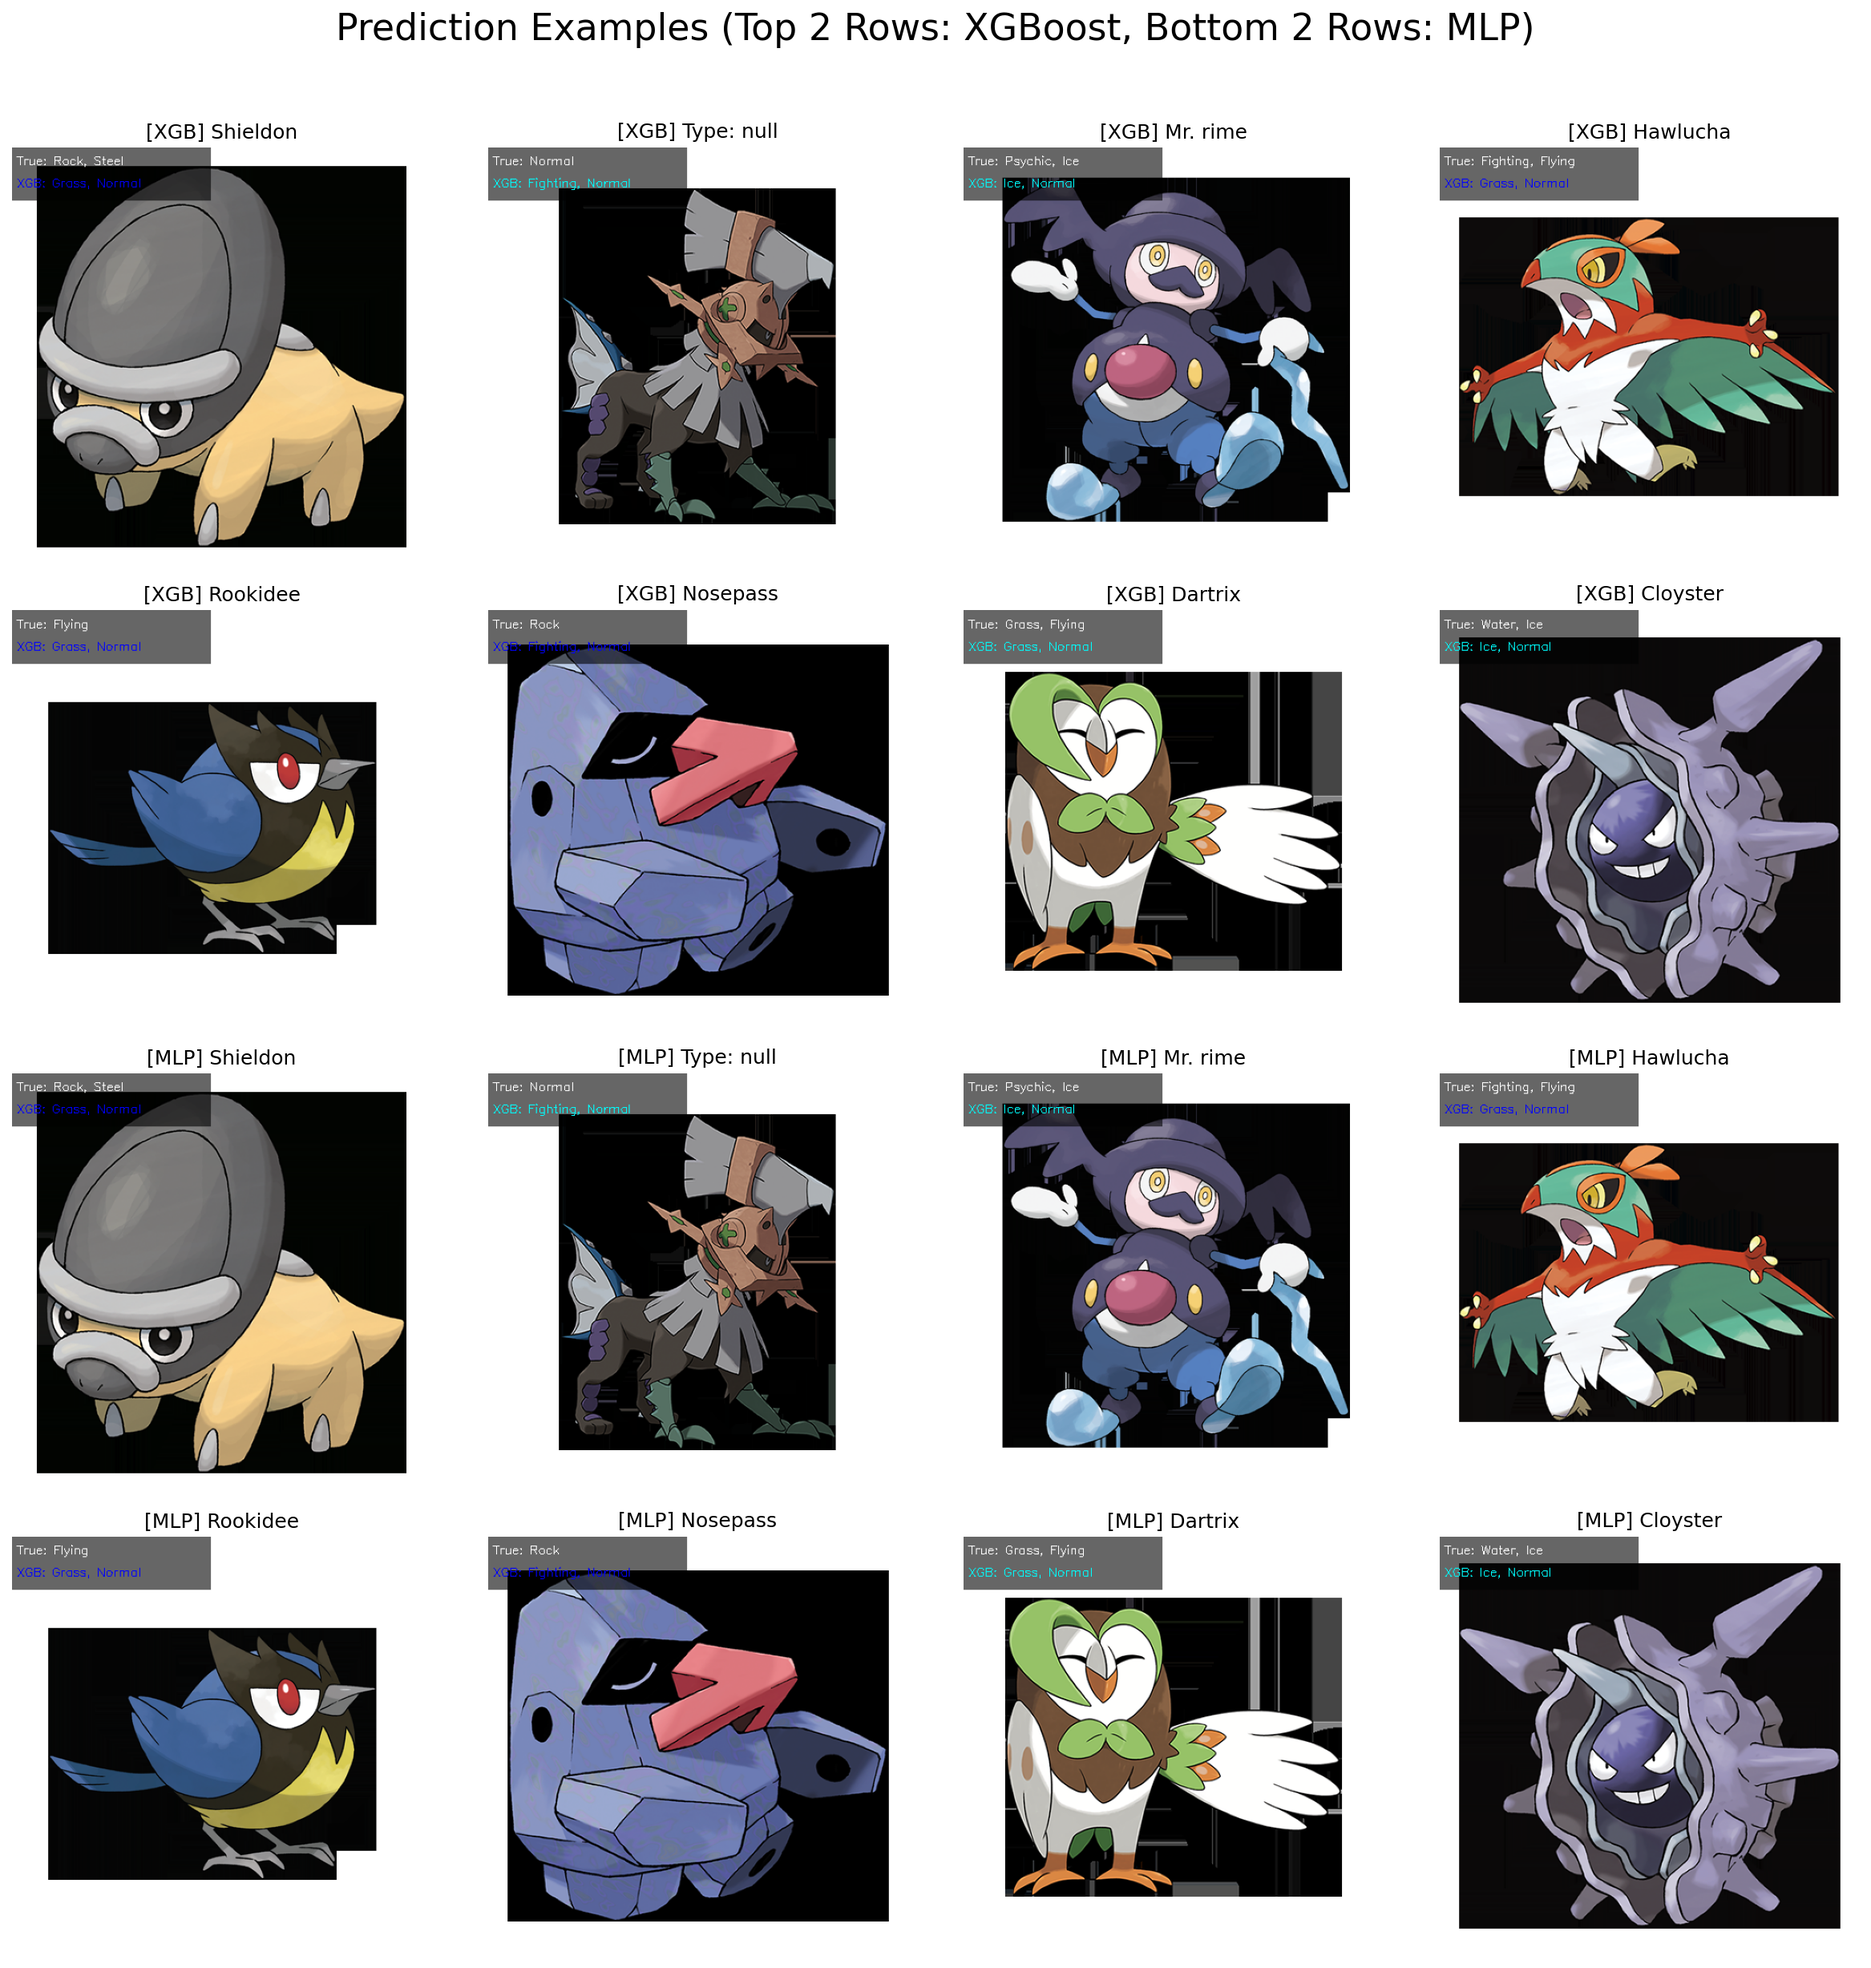
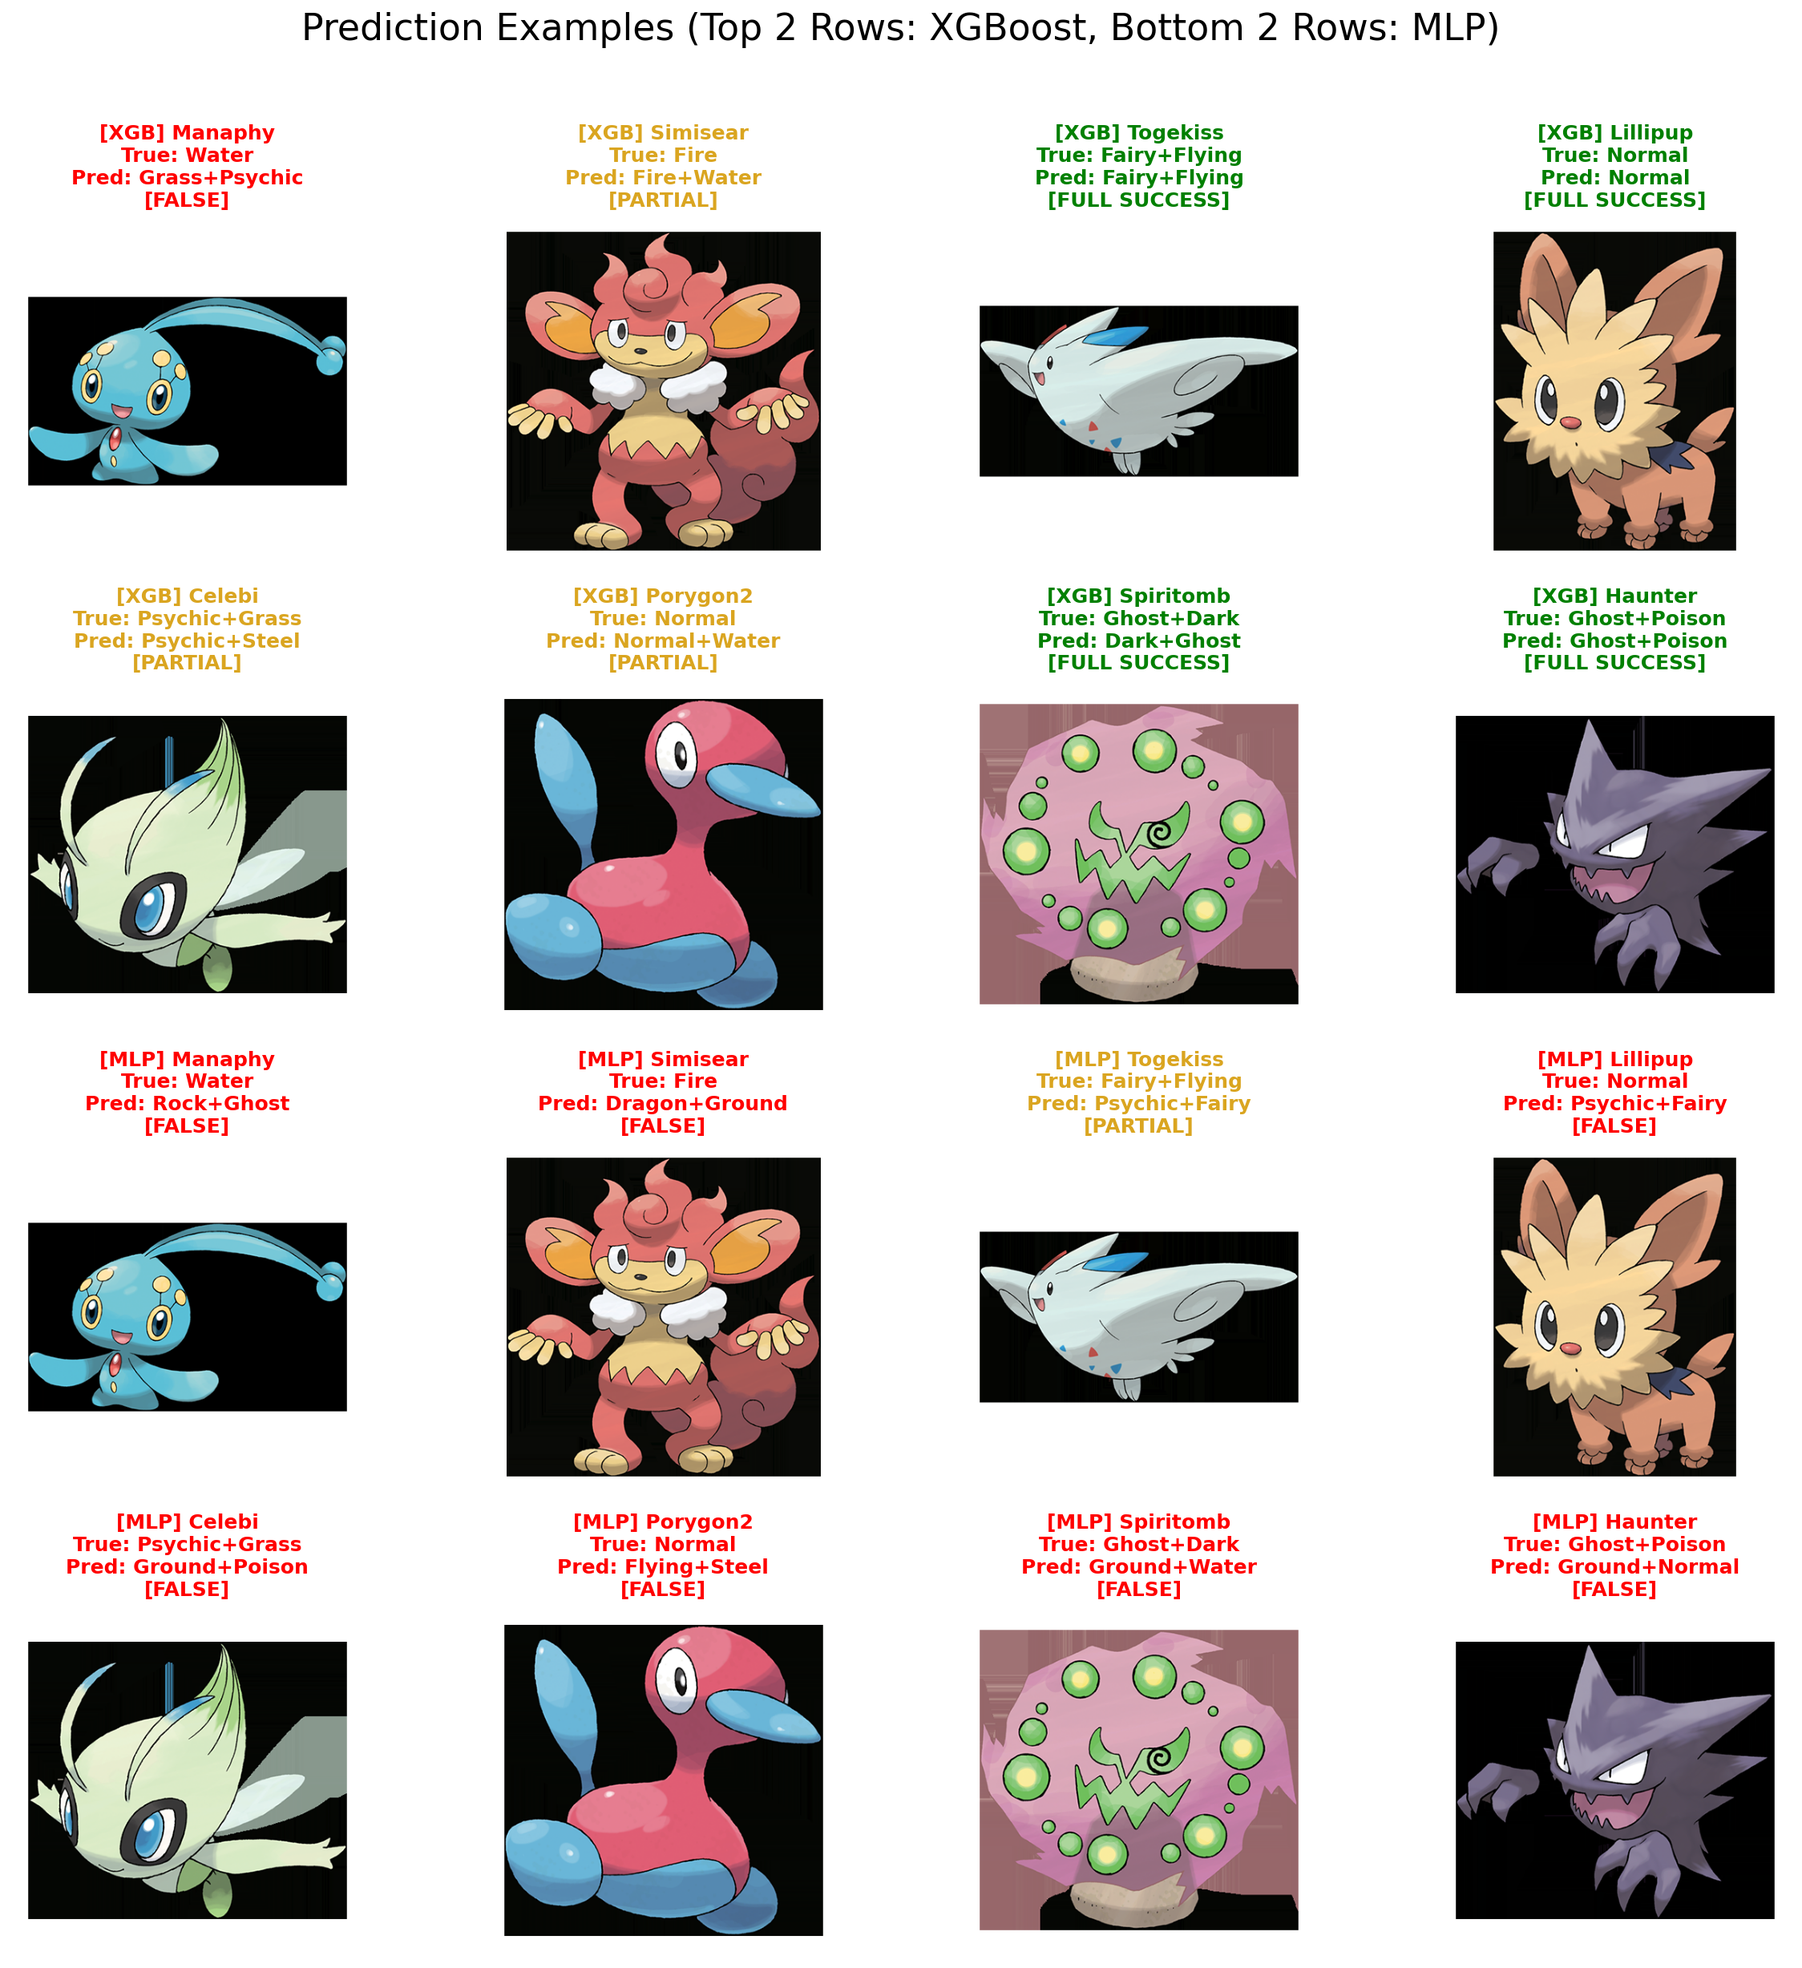
Revert prediction grid layout and graphical quality to original state

diff --git a/scripts/generate_examples.py b/scripts/generate_examples.py
@@ -52,11 +52,14 @@ def generate_examples():
             xgb_examples.append(item_xgb)
             
         if len(mlp_examples) < 8:
-            if pred['mlp']:
-                top_mlp = pred['mlp'][0]
-                pred_mlp = "+".join(top_mlp)
-            else:
-                pred_mlp = "None"
+            try:
+                 if pred.get('mlp') and len(pred['mlp']) > 0:
+                     top_mlp = pred['mlp'][0]
+                     pred_mlp = "+".join(top_mlp)
+                 else:
+                     pred_mlp = "None"
+            except:
+                 pred_mlp = "None"
             item_mlp = item.copy()
             item_mlp['pred'] = pred_mlp
             mlp_examples.append(item_mlp)
@@ -75,42 +78,25 @@ def generate_examples():
             
         img = cv2.imread(item['img_path'])
         if img is not None:
-            img_bgr = cv2.cvtColor(img, cv2.COLOR_BGR2RGB)
-            ax.imshow(img_bgr)
+            img = cv2.cvtColor(img, cv2.COLOR_BGR2RGB)
+            ax.imshow(img)
         
-        true_types = item['true'].split('+')
+        true_set = set(item['true'].split('+'))
+        pred_set = set(item['pred'].split('+')) if item['pred'] != "None" else set()
         
-        # Always run predictions
-        pred = predictor.predict(item['img_path'])
-        pred_xgb = pred["xgboost"]
+        intersection = true_set.intersection(pred_set)
         
-        # Format prediction text (XGBoost Only)
-        true_text = f"True: {', '.join(true_types)}"
-        xgb_text = f"XGB: {', '.join(pred_xgb)}"
-        
-        # Add a subtle dark backing panel for text readability
-        overlay = img_bgr.copy()
-        cv2.rectangle(overlay, (0, 0), (224, 60), (0, 0, 0), -1)
-        alpha = 0.6
-        img_bgr = cv2.addWeighted(overlay, alpha, img_bgr, 1 - alpha, 0)
-        
-        # Determine exact match color for XGBoost
-        # Sort both tuples to ensure order doesn't fail the match
-        pred_sorted = tuple(sorted(pred_xgb))
-        true_sorted = tuple(sorted(true_types))
-        
-        if pred_sorted == true_sorted:
-            color_xgb = (0, 255, 0) # Green for perfect match
-        elif set(pred_xgb).intersection(set(true_types)):
-            color_xgb = (0, 255, 255) # Yellow for partial match
+        if true_set == pred_set:
+            color = 'green'
+            status = "FULL SUCCESS"
+        elif len(intersection) > 0:
+            color = 'goldenrod' # Darker yellow for true visibility on white backgrounds
+            status = "PARTIAL"
         else:
-            color_xgb = (0, 0, 255) # Red for complete miss
-            
-        cv2.putText(img_bgr, true_text, (5, 20), cv2.FONT_HERSHEY_SIMPLEX, 0.45, (255, 255, 255), 1)
-        cv2.putText(img_bgr, xgb_text, (5, 45), cv2.FONT_HERSHEY_SIMPLEX, 0.45, color_xgb, 1)
+            color = 'red'
+            status = "FALSE"
         
-        ax.imshow(img_bgr) # Display the image with text overlay
-        ax.set_title(f"{prefix} {item['name'].capitalize()}", fontsize=12) # Only name and prefix in title
+        ax.set_title(f"{prefix} {item['name'].capitalize()}\nTrue: {item['true']}\nPred: {item['pred']}\n[{status}]", color=color, fontweight='bold', fontsize=12)
         ax.axis('off')
 
     plt.tight_layout()
